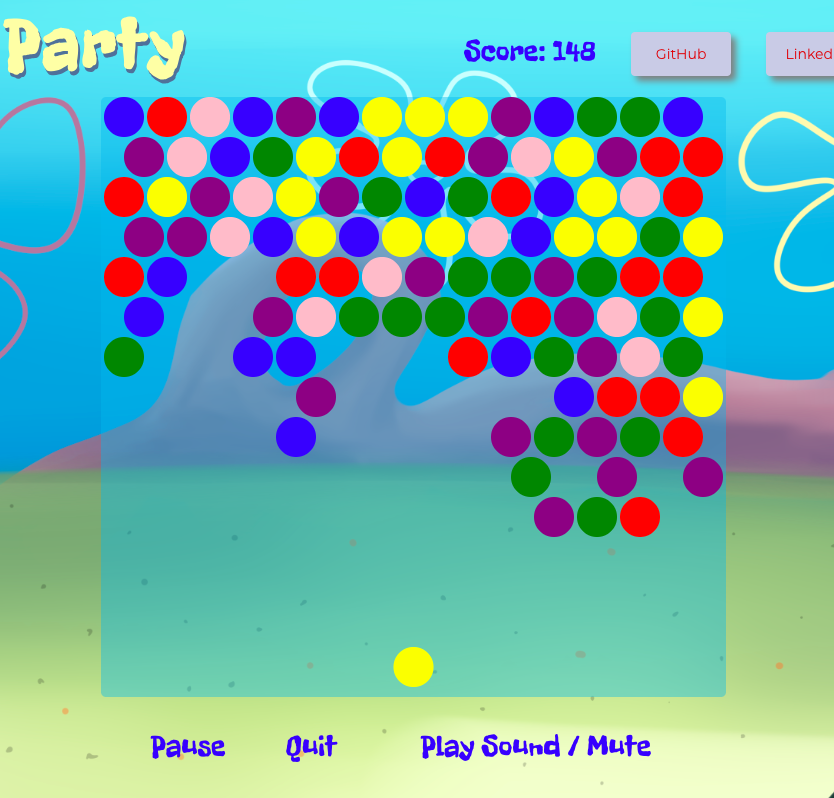
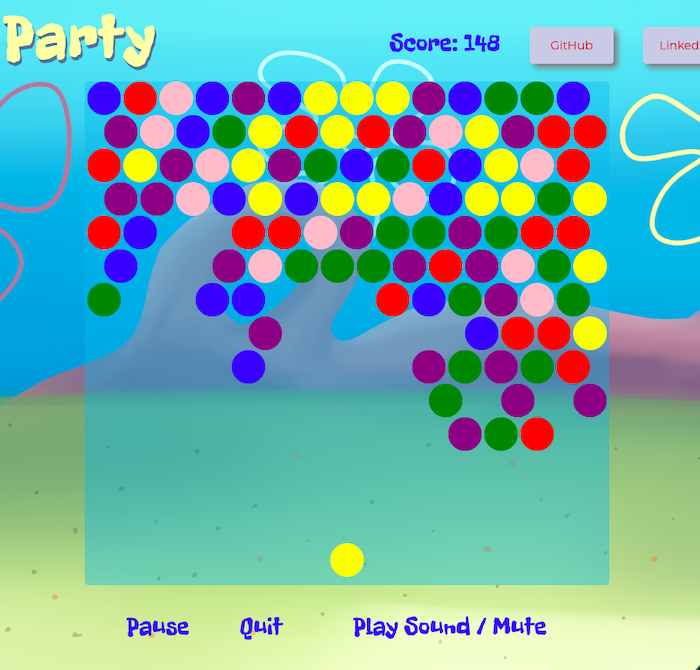
Update game image

diff --git a/index.html b/index.html
@@ -224,7 +224,7 @@
             </div>
             <div class="col-md-6">
               <div class="cc-porfolio-image img-raised" data-aos="fade-up" data-aos-anchor-placement="top-bottom"><a href="https://aneldanza.info/Bubble-Party/" target="_blank">
-                  <figure class="cc-effect"><img src="images/BubbleParty.png" alt="Image"/>
+                  <figure class="cc-effect"><img src="images/BubbleParty2.png" alt="Image"/>
                     <figcaption>
                       <div class="h4">Web Browser Game</div>
                       <p>Bubble Party</p>
